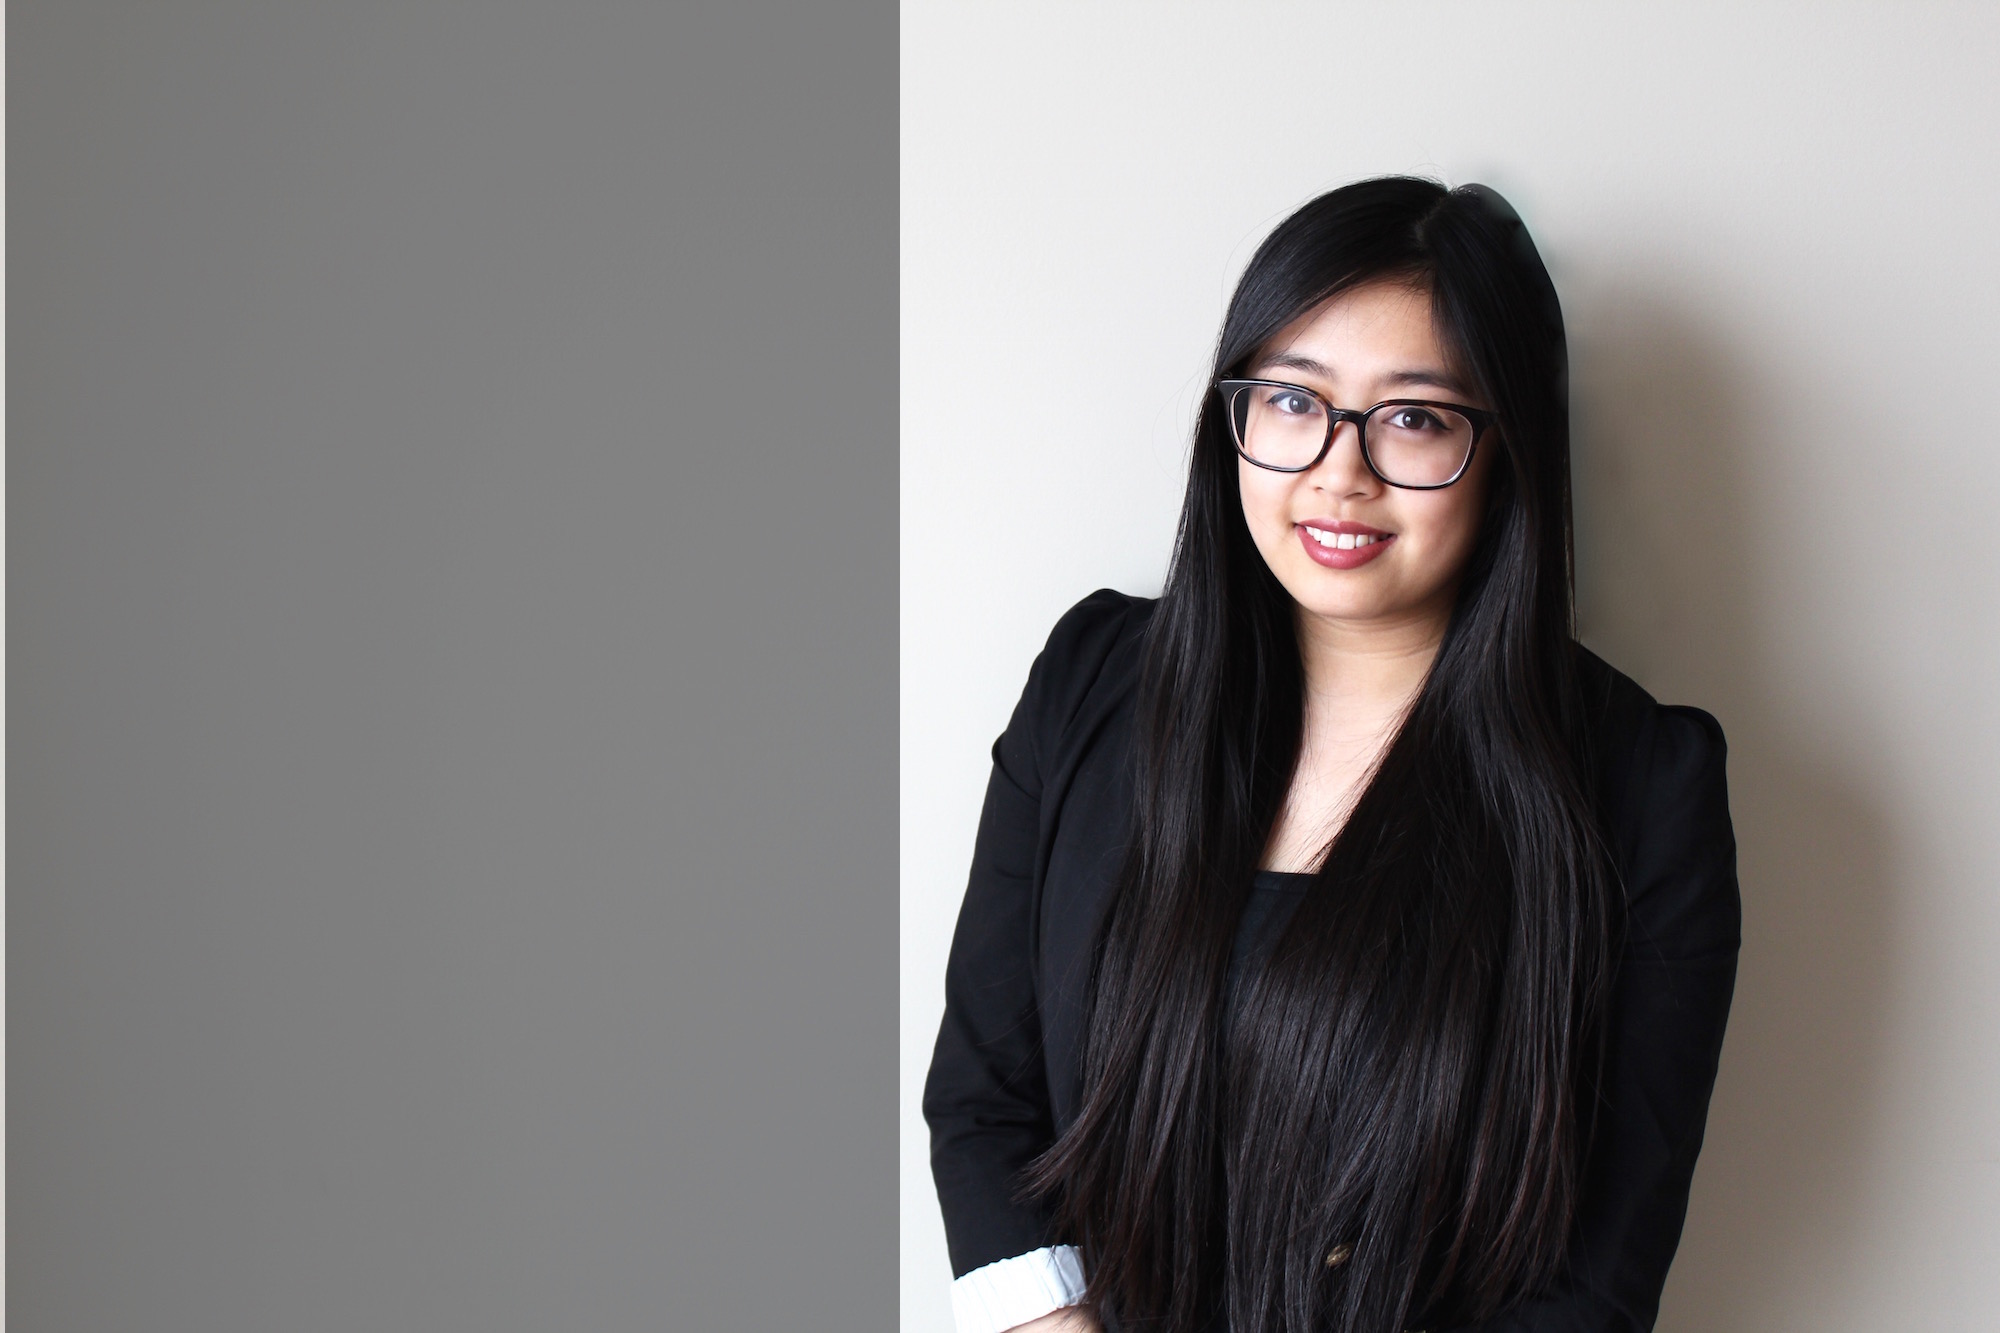
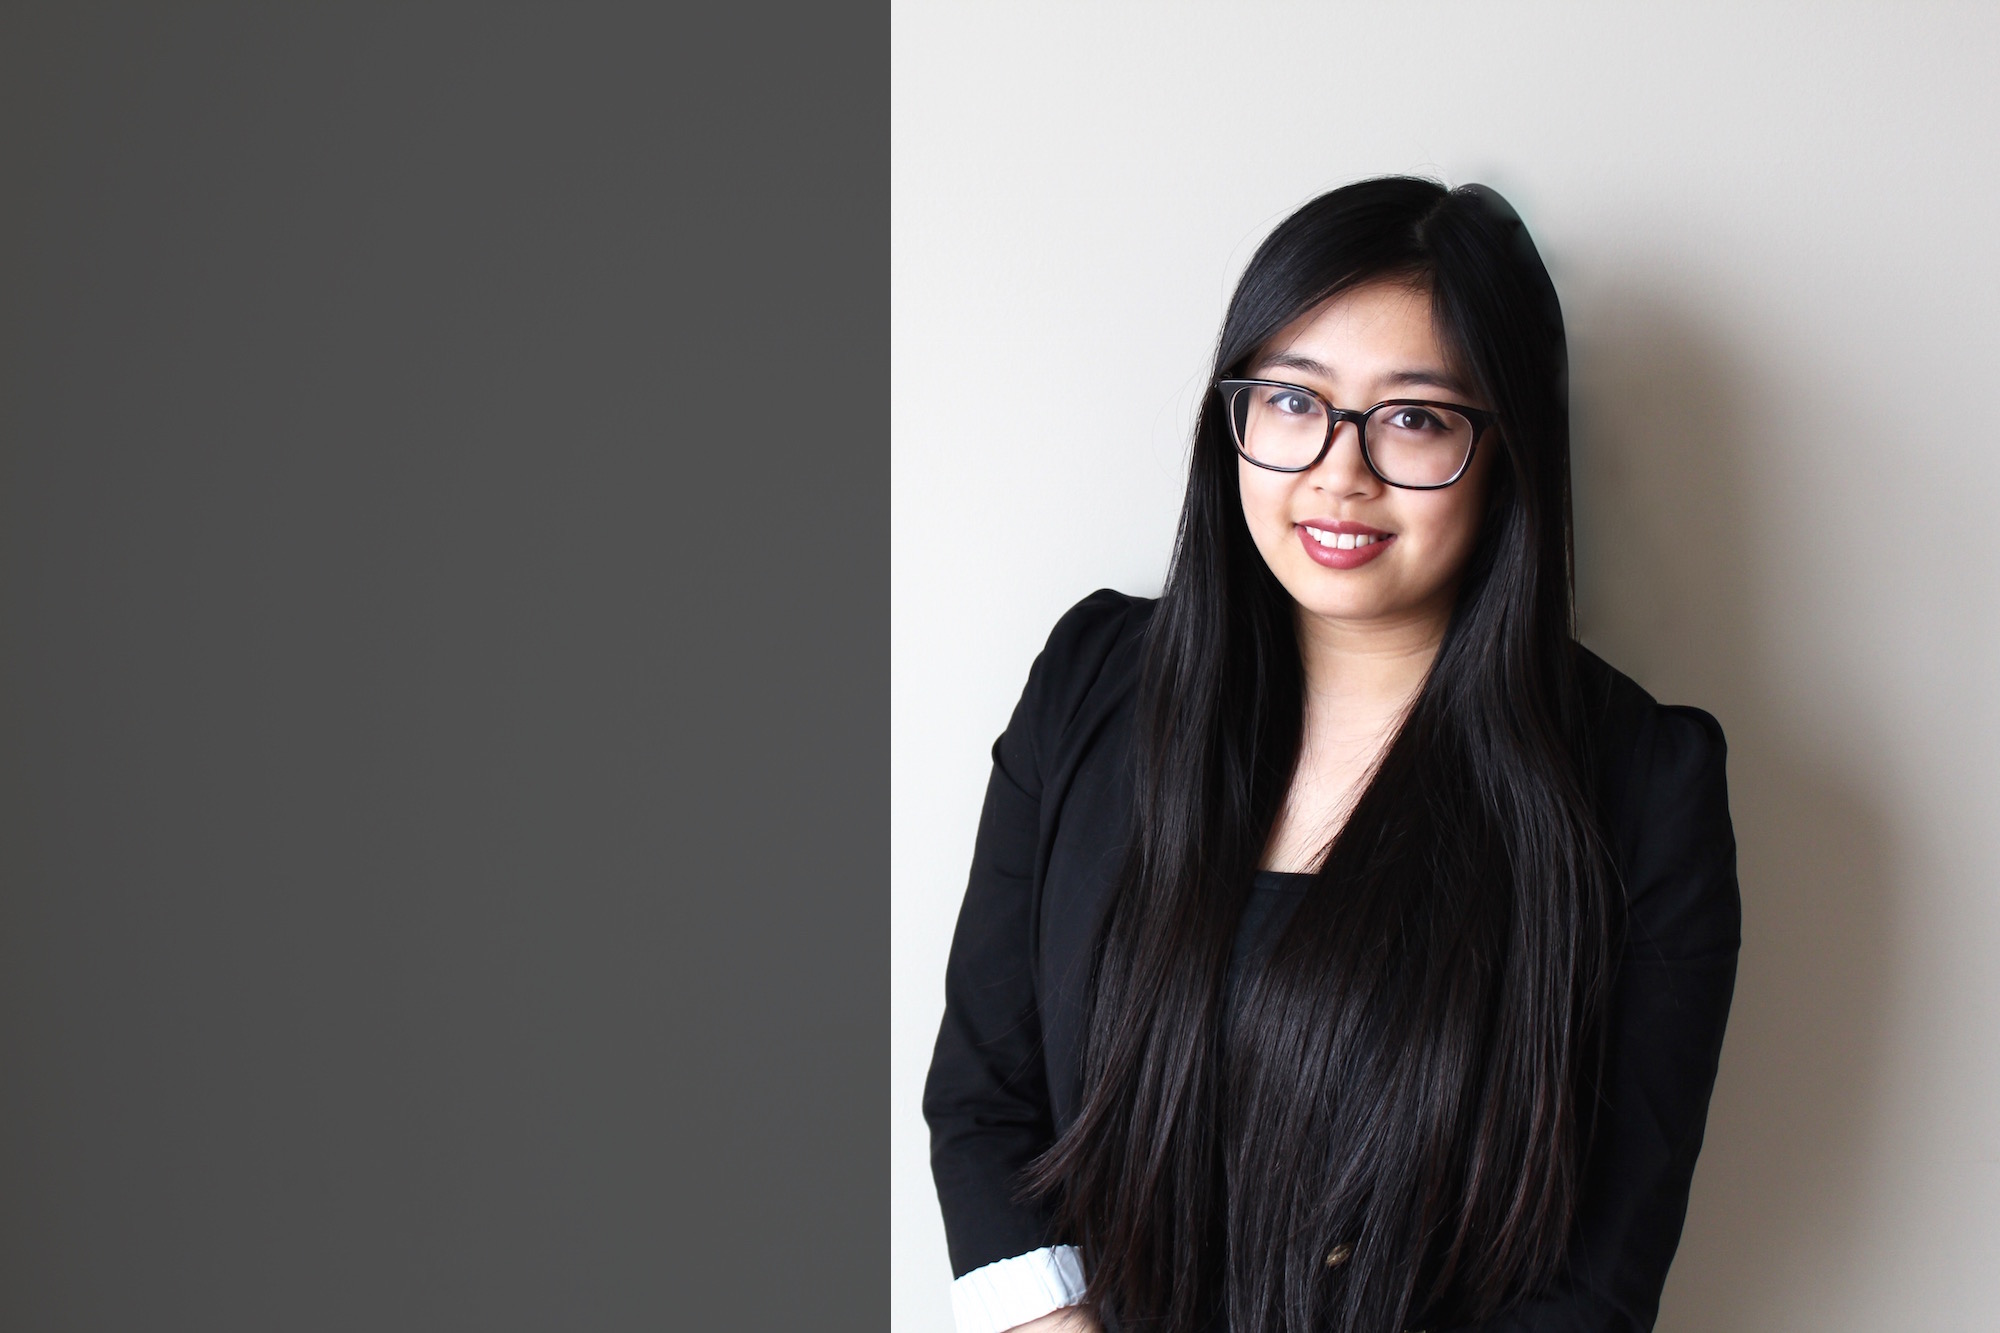
final fixes

diff --git a/executive.html b/executive.html
@@ -92,21 +92,19 @@
 					<div class="section-heading">
 					<h2 align="middle" style="color:gray">Meet our impressive executive team</h2>
 					<i class="fa fa-2x fa-angle-down"></i>
-
 					</div>
 					</div>
 				</div>
 			</div>
 			</div>
 		</div>
-		<div class="container">
 
 		<div class="row">
 			<div class="col-lg-2 col-lg-offset-5">
 				<hr class="marginbot-50">
 			</div>
 		</div>
-		</div>
+
 	</section>
 	<!-- /Section: message -->
 
@@ -141,7 +139,7 @@
 		</div>
 	</section>
 	<!-- /Section: Gilbert -->
-<br><br>
+
   <!-- Section: Steph -->
     <section id="steph" class="home-section text-center bg-steph">
 		<div class="heading-about">
@@ -168,7 +166,7 @@
 		</div>
 	</section>
 	<!-- /Section: Steph-->
-<br><br>
+
   <!-- Section: Ashna -->
     <section id="ashna" class="home-section text-center bg-ashna">
 		<div class="heading-about">
@@ -195,7 +193,7 @@
 		</div>
 	</section>
 	<!-- /Section: Ashna-->
-<br><br>
+
   <!-- Section: Andra -->
     <section id="andra" class="home-section text-center bg-andra">
 		<div class="heading-about">
@@ -222,7 +220,7 @@
 		</div>
 	</section>
 	<!-- /Section: Andra-->
-<br><Br>
+
 
   <!-- Section: Angela -->
     <section id="angela" class="home-section text-center bg-angela">
@@ -373,16 +371,12 @@
         <div class="row">
             <div class="col-sm-12 col-md-12">
           <div class="wow fadeInUp" data-wow-delay="0.5s">
-                  <div class="service-box">
-            <h4 style="color:white">WE NEED YOU!</h4>
-            <div class="service-icon">
-              <a href="mailto:uw.85chester@gmail.com"><img src="img/icons/resume.png" alt="" /></a>
+            <div class="container">
+              <h4 style="color:white">WE NEED YOU!</h4>
+              <a href="mailto:uw.85chester@gmail.com"><img src="img/icons/resume.png" alt="" /><br><br>
+              <h5>CLICK TO EMAIL YOUR COVER LETTER AND RESUME TO OUR TEAM</h5></a>
+              <p>Our HR Team will contact you for further instructions <BR>in the application process. We look forward to meeting each and every one of you! </p>
             </div>
-            <div class="service-desc">
-              <h5 style="color:white">CLICK TO EMAIL YOUR COVER LETTER AND RESUME TO OUR TEAM</h5>
-              <p style="color:white">Our HR Team will contact you for further instructions <BR>in the application process. We look forward to meeting each and every one of you! </p>
-            </div>
-                  </div>
           </div>
            </div>
         </div>

diff --git a/index.html b/index.html
@@ -265,8 +265,19 @@
                             </div>
         </div>
 		</div>
-    <h3> Speak to a sales representative today!</h3>
-
+    <div class="row">
+      <div class="col-lg-2 col-lg-offset-5">
+        <hr class="marginbot-50">
+      </div>
+    </div>
+    <h3 style="color:yellowgreen"> Why can't I order online?</h3>
+    <p> Our sales representatives are professionally trained to help meet your company's individual need for sensors.<br> They will be happy to assist you and ensure that your company is satisfied with your purchase.</p>
+    <h3> CONTACT a sales representative today!</h3>
+    <div class="page-scroll">
+      <a href="#contact" class="btn btn-dark">
+        <i class="fa fa-angle-double-down animated"></i>
+      </a>
+    </div>
 	</section>
 	<!-- /Section: services -->
 

diff --git a/css/style.css b/css/style.css
@@ -601,10 +601,19 @@ Parallax
     -moz-transition: background .3s ease-in-out;
     transition: background .3s ease-in-out;
 }
-
-.btn-circle.btn-dark {
+.btn-dark {
+    width: 70px;
+    height: 70px;
+    margin-top: 15px;
+    padding: 7px 16px;
     border: 2px solid #666;
+    border-radius: 50%;
+    font-size: 40px;
     color: #666;
+    background: 0 0;
+    -webkit-transition: background .3s ease-in-out;
+    -moz-transition: background .3s ease-in-out;
+    transition: background .3s ease-in-out;
 }
 
 

diff --git a/css/execstyle.css b/css/execstyle.css
@@ -330,9 +330,6 @@ hr {
   background-size: cover;
 }
 
-.bg-dark {
-	background: #575757;
-}
 
 /* --- section color var --- */
 
